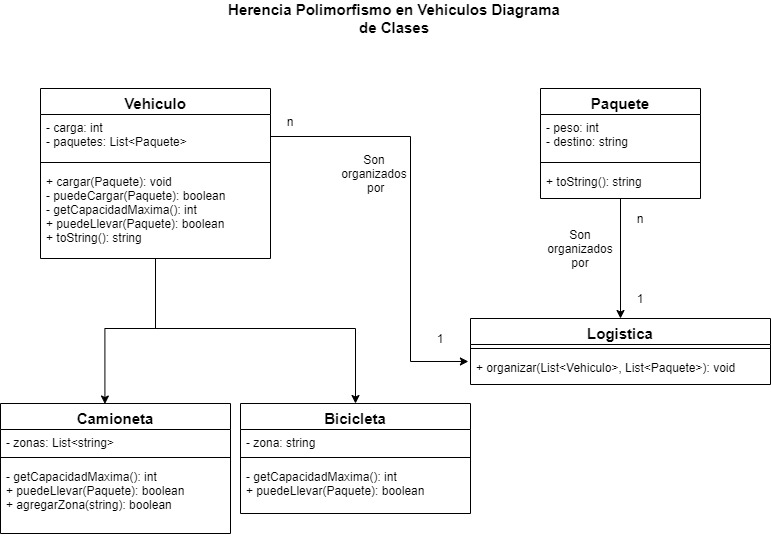
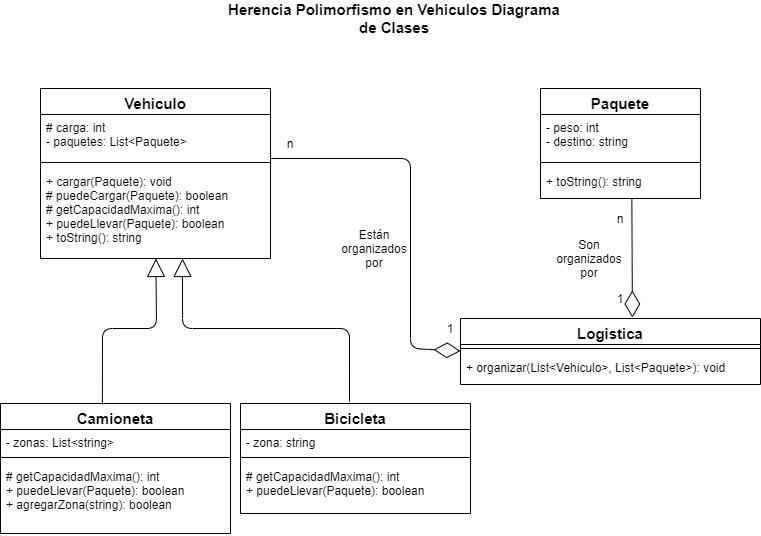
se mejora el diagrama de clases

diff --git a/oop-herencia-polimorfismo-vehiculos/README.md b/oop-herencia-polimorfismo-vehiculos/README.md
@@ -55,5 +55,5 @@ Este problema tiene como objetivo demostrar cómo utilizar la herencia y el poli
 ## Contribuciones
 
 * Las contribuciones a este proyecto siempre son bienvenidas. Para contribuir por favor primero cree un Fork ([¿Como lo hago?](http://kbroman.org/github_tutorial/pages/fork.html)), luego cree un Pull Request donde se discutira sobre los cambios.
-* Por favor a cada cambio que agregues no olvides mantener el test coverage!
+* Por favor a cada cambio que agregues ¡No olvides mantener el test coverage!
 
